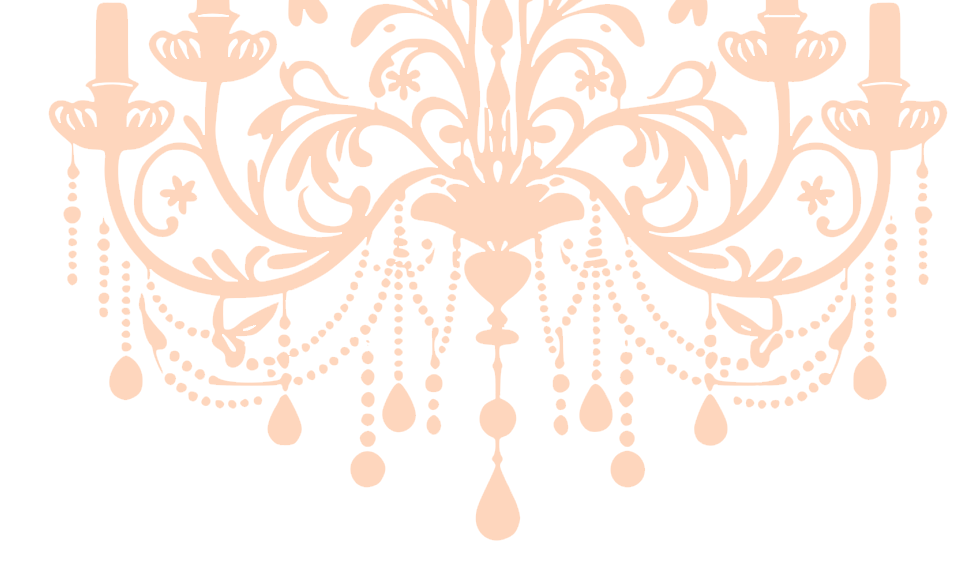
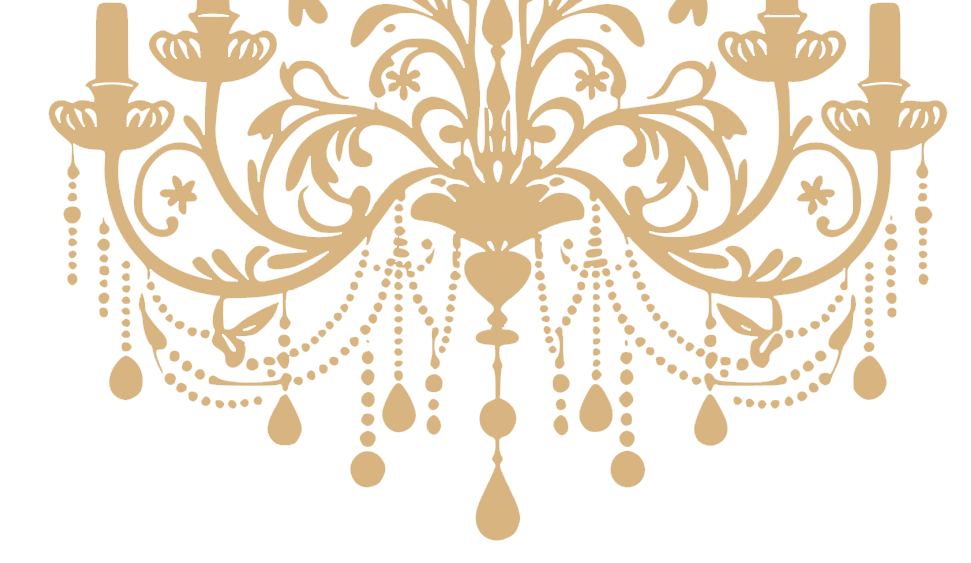
💄 colour scheme change + starry background

Changed region(s): [[0.0309, 0.0, 0.9887, 0.9663]]

diff --git a/app/page.tsx b/app/page.tsx
@@ -59,17 +59,19 @@ export default function Home() {
   }, []);
 
   return (
-    <main className="relative bg-[#B31E56]">
+    <main className="relative">
+      <div className="stars"></div>
+      <div className="twinkling"></div>
       {/* Scroll Progress Bar */}
       <div
-        className="fixed top-0 left-0 h-1 bg-[#FED6BD] z-50"
+        className="fixed top-0 left-0 h-1 bg-[#D8B480] z-50"
         style={{ width: `${scrollProgress}%` }}
       ></div>
 
       {/* Background Color */}
-      <div className="absolute inset-0 bg-[#B31E56]"></div>
+      <div className="absolute inset-0"></div>
 
-      <section className="flex items-start justify-between bg-[#B31E56]">
+      <section className="flex items-start justify-between">
         {/* Image in the top left corner */}
         <div className="p-4 z-10">
           <div className="animate-pulse animate-glow">
@@ -109,48 +111,61 @@ export default function Home() {
       </section>
 
       {/* Content Section */}
-      <section className="bg-[#B31E56] relative flex flex-col items-center py-6 justify-start h-full z-10 text-[#FED6BD]">
+      <section className="relative flex flex-col items-center py-6 justify-start h-full z-10 text-[#D8B480]">
         <Image src="/ganesha.png" alt="logo" width={70} height={70} />
 
         <p className="block text-2xl text-center font-bold p-4 font-cormorant">
           You are cordially invited to the wedding ceremony of
         </p>
-        <p className="block text-8xl animate-fadein font-luxuriousScript">
+        <p className="block text-7xl md:text-8xl animate-fadein font-luxuriousScript">
           Tricia & Amit
         </p>
         <div className="flex flex-col items-center text-xl font-cormorant">
-          <p className="text-4xl mb-2">08.22.2025</p>
+          <p className="text-4xl">08.22.2025</p>
           <p className="font-bold mb-4">📍 Triveni Mandir</p>
-          <p className="text-4xl mb-2">08.23.2025</p>
+          <p className="text-4xl">08.23.2025</p>
           <p className="font-bold">📍 Pearson Convention Centre</p>
         </div>
 
         {/* Countdown Timer */}
         <div className="flex font-cormorant">
-          <p className="flex flex-col items-center px-4 pt-4 text-4xl">
-            <span className="text-6xl">{timeLeft.days}</span>
+          <p className="flex flex-col items-center px-4 pt-4">
+            <span className="text-4xl md:text-6xl w-10 md:w-16 text-center">
+              {timeLeft.days}
+            </span>
             <span className="text-sm mt-2">Days</span>
           </p>
           <p className="flex flex-col items-center px-4 pt-4 text-4xl">
-            <span className="text-6xl">{timeLeft.hours}</span>
+            <span className="text-4xl md:text-6xl w-10 md:w-16 text-center">
+              {timeLeft.hours}
+            </span>
             <span className="text-sm mt-2">Hours</span>
           </p>
           <p className="flex flex-col items-center px-4 pt-4 text-4xl">
-            <span className="text-6xl">{timeLeft.minutes}</span>
+            <span className="text-4xl md:text-6xl w-10 md:w-16text-center">
+              {timeLeft.minutes}
+            </span>
             <span className="text-sm mt-2">Minutes</span>
           </p>
           <p className="flex flex-col items-center px-4 pt-4 text-4xl">
-            <span key={timeLeft.seconds} className="text-6xl">
+            <span
+              key={timeLeft.seconds}
+              className="text-4xl md:text-6xl w-10 md:w-16 text-center"
+            >
               {timeLeft.seconds}
             </span>
             <span className="text-sm mt-2">Seconds</span>
           </p>
         </div>
 
+        <p className="font-cormorant font-bold text-xl mt-4">
+          #OnCloudRambaran2025
+        </p>
+
         <Dialog>
           <DialogTrigger asChild>
             <Button
-              className="my-10 px-6 py-6 text-lg bg-[#F8E6D1] text-amber-950 rounded-lg font-semibold
+              className="my-10 px-6 py-6 text-lg bg-[#D8B480] text-slate-900 rounded-lg font-semibold
           hover:bg-[#e4d1b8] hover:text-amber-900 hover:shadow-lg hover:scale-110
           focus:outline-none transition-transform duration-200 ease-in-out animate-pulse animate-glow"
             >
@@ -205,7 +220,7 @@ export default function Home() {
         <section className="text-center max-w-4xl">
           <h2 className="text-xl font-bold mb-4">Our Story</h2>
 
-          <p className="text-md mb-4">
+          <p className="text-md m-8">
             Dearest Family and Friends,
             <br />
             <br />
@@ -222,13 +237,13 @@ export default function Home() {
             laughter brought us closer together, every moment has been a
             cherished chapter in our love story. On September 12, 2020, a
             milestone etched itself into our hearts as Amit asked Tricia to be
-            their girlfriend, marking the beginning of a beautiful journey
-            filled with love, laughter, and countless memories. But fate had
-            even grander plans for us. Exactly three years later, on the
-            anniversary of that unforgettable day, Amit knelt before Tricia,
-            ring in hand, and asked for forever. In that moment, surrounded by
-            the echoes of our past and the promise of our future, we knew
-            without a doubt that our love was meant to last a lifetime.
+            his girlfriend, marking the beginning of a beautiful journey filled
+            with love, laughter, and countless memories. But fate had even
+            grander plans for us. Exactly three years later, on the anniversary
+            of that unforgettable day, Amit knelt before Tricia, ring in hand,
+            and asked for forever. In that moment, surrounded by the echoes of
+            our past and the promise of our future, we knew without a doubt that
+            our love was meant to last a lifetime.
             <br />
             <br />
             As we prepare to say &quot;I do&quot; and exchange vows surrounded

diff --git a/components/ui/Timeline.js b/components/ui/Timeline.js
@@ -40,9 +40,9 @@ export default function Timeline() {
   ];
 
   return (
-    <div className="relative w-full flex justify-center bg-[#B31E56]">
+    <div className="relative w-full flex justify-center">
       {/* Center Line */}
-      <div className="absolute h-full w-1 bg-[#F8E6D1]/80 left-1/2 transform -translate-x-1/2"></div>
+      <div className="absolute h-full w-1 bg-[#f0d7bb]/80 left-1/2 transform -translate-x-1/2"></div>
 
       {/* Event Cards */}
       <div className="w-full max-w-3xl p-2 relative">
@@ -56,7 +56,7 @@ export default function Timeline() {
             } mb-4 relative`} // Reduced margin-bottom from 8 to 4
           >
             {/* Dot */}
-            <div className="absolute w-3 h-3 bg-[#F8E6D1] rounded-full left-1/2 transform -translate-x-1/2"></div>{" "}
+            <div className="absolute w-3 h-3 bg-[#dab47b] rounded-full left-1/2 transform -translate-x-1/2"></div>{" "}
             {/* Reduced size */}
             {/* Event Card */}
             <div

diff --git a/components/ui/EventCard.js b/components/ui/EventCard.js
@@ -1,9 +1,9 @@
 const EventCard = ({ event }) => {
   return (
-    <div className="bg-[#F8E6D1]/90 backdrop-blur-sm rounded-lg shadow-xl p-3 transition-all">
-      <h3 className="text-md font-bold text-amber-950">{event.title}</h3>
-      <p className="text-amber-900 text-sm mt-1">{event.date}</p>
-      <p className="text-amber-900/80 text-xs mt-1">
+    <div className="bg-[#e4c498]/90 backdrop-blur-sm rounded-lg shadow-xl p-3 transition-all">
+      <h3 className="text-slate-900 font-bold">{event.title}</h3>
+      <p className="text-slate-900 text-sm mt-1">{event.date}</p>
+      <p className="text-red-800 text-xs mt-1">
         📍 <span className="italic">{event.location}</span>
       </p>
     </div>

diff --git a/app/globals.css b/app/globals.css
@@ -44,3 +44,36 @@
   scrollbar-width: thin;
   scrollbar-color: rgba(0, 0, 0, 0.3) transparent;
 }
+
+.stars, .twinkling, .clouds {
+  position:absolute;
+  top:0;
+  left:0;
+  right:0;
+  bottom:0;
+  width:100%;
+  height:100%;
+  display:block;
+}
+
+.stars {
+  background:#0f3124 url(/stars.png) repeat top center;
+  z-index:0;
+}
+
+.twinkling{
+  background:transparent url(/twinkling.png) repeat top center;
+  z-index:1;
+  animation:move-twink-back 200s linear infinite;
+}
+
+@keyframes move-twink-back {
+  from {background-position:0 0;}
+  to {background-position:-10000px 5000px;}
+}
+
+.border {
+  border: 4px solid;
+  border-radius: 5px;
+  color: #D8B480;
+}

diff --git a/app/layout.tsx b/app/layout.tsx
@@ -50,12 +50,12 @@ export default function RootLayout({
   return (
     <html
       lang="en"
-      className={`${inter.variable} ${luxuriousScript.variable} ${cormorant.variable} ${noto.variable} bg-[#B31E56]`}
+      className={`${inter.variable} ${luxuriousScript.variable} ${cormorant.variable} ${noto.variable} bg-[#0e421f]`}
     >
       <head>
         <link rel="icon" href="/favicon.png" />
       </head>
-      <body className={`bg-base-100 rounded-lg`}>{children}</body>
+      <body className={`rounded-lg bg-[#0f3124] border`}>{children}</body>
     </html>
   );
 }
